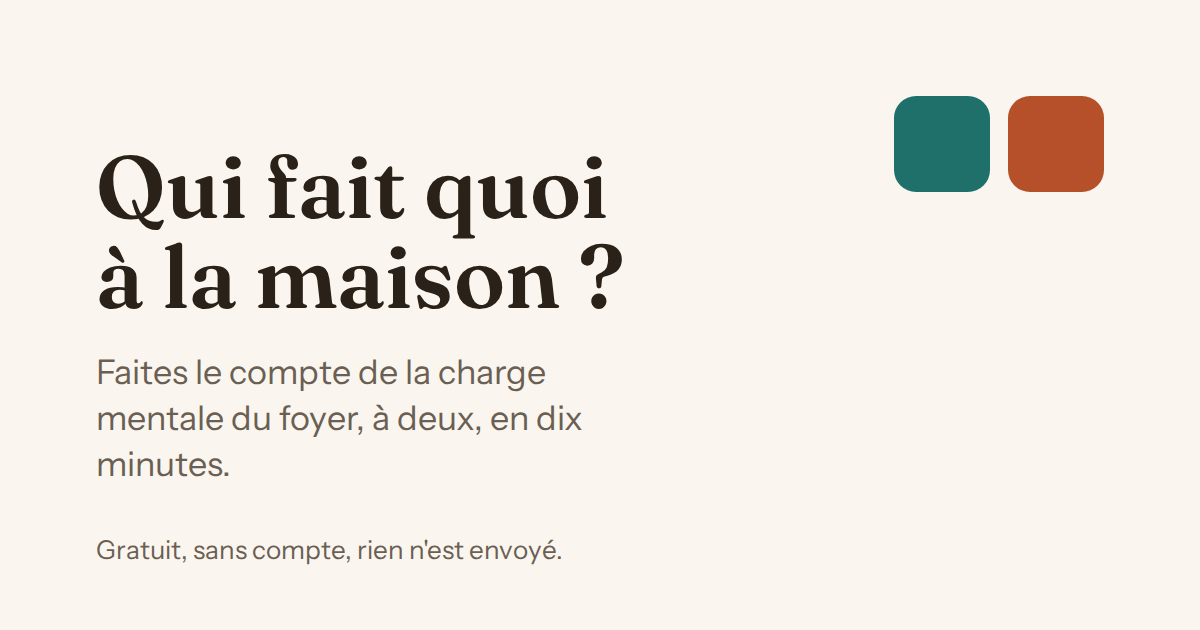
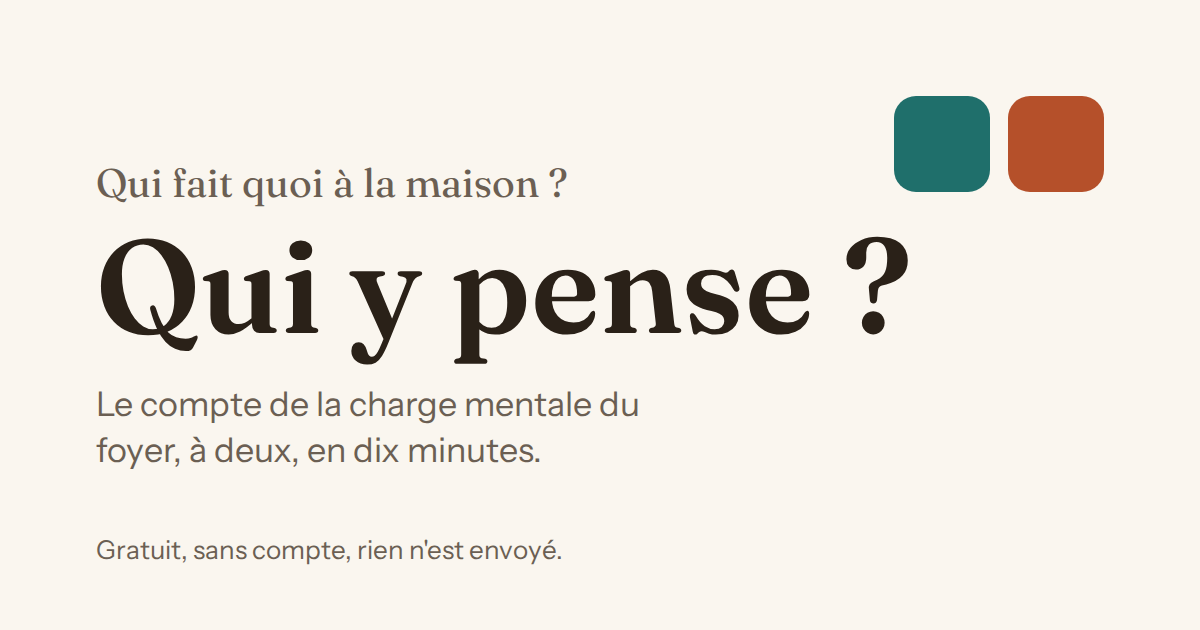
Marque Qui y pense ? : titre, accroche, image de partage, manifest
Claude-Session: https://claude.ai/code/session_01Kac15Tm4G8R4TCtr8Jm2ZJ

Changed region(s): [[0.0617, 0.2413, 0.6783, 0.754], [0.6783, 0.3619, 0.7708, 0.5429]]

diff --git a/index.html b/index.html
@@ -3,31 +3,31 @@
 <head>
 <meta charset="utf-8">
 <meta name="viewport" content="width=device-width, initial-scale=1">
-<title>Qui fait quoi à la maison ? Le compte de la charge mentale, à deux</title>
-<meta name="description" content="Listez qui s'occupe de quoi et qui y pense dans votre foyer, et lisez le résultat en heures par jour et en tâches à garder en tête. Gratuit, sans compte, rien n'est envoyé, dix minutes à deux.">
+<title>Qui y pense ? Qui fait quoi à la maison, le compte de la charge mentale</title>
+<meta name="description" content="Qui fait quoi à la maison, et surtout qui y pense ? Listez les tâches du foyer à deux et lisez le résultat en heures par jour et en choses à garder en tête. Gratuit, sans compte, rien n'est envoyé.">
 <link rel="canonical" href="https://charlusminus.github.io/charge_mentale_site/">
 <meta name="robots" content="index, follow, max-image-preview:large">
 <meta name="author" content="Charles Alzon">
 <meta name="theme-color" content="#FAF6EF">
 <meta property="og:type" content="website">
 <meta property="og:locale" content="fr_FR">
-<meta property="og:site_name" content="Qui fait quoi à la maison ?">
-<meta property="og:title" content="Qui fait quoi à la maison ?">
-<meta property="og:description" content="Faites le compte de la charge mentale du foyer, à deux, en dix minutes. Gratuit, sans compte, rien n'est envoyé.">
+<meta property="og:site_name" content="Qui y pense ?">
+<meta property="og:title" content="Qui y pense ? Qui fait quoi à la maison">
+<meta property="og:description" content="Le compte de la charge mentale du foyer, à deux, en dix minutes. Gratuit, sans compte, rien n'est envoyé.">
 <meta property="og:url" content="https://charlusminus.github.io/charge_mentale_site/">
 <meta property="og:image" content="https://charlusminus.github.io/charge_mentale_site/img/og.png">
 <meta property="og:image:width" content="1200">
 <meta property="og:image:height" content="630">
-<meta property="og:image:alt" content="Qui fait quoi à la maison ? Faites le compte de la charge mentale du foyer, à deux, en dix minutes.">
+<meta property="og:image:alt" content="Qui y pense ? Qui fait quoi à la maison. Le compte de la charge mentale du foyer, à deux, en dix minutes.">
 <meta name="twitter:card" content="summary_large_image">
-<meta name="twitter:title" content="Qui fait quoi à la maison ?">
-<meta name="twitter:description" content="Faites le compte de la charge mentale du foyer, à deux, en dix minutes. Gratuit, sans compte, rien n'est envoyé.">
+<meta name="twitter:title" content="Qui y pense ? Qui fait quoi à la maison">
+<meta name="twitter:description" content="Le compte de la charge mentale du foyer, à deux, en dix minutes. Gratuit, sans compte, rien n'est envoyé.">
 <meta name="twitter:image" content="https://charlusminus.github.io/charge_mentale_site/img/og.png">
 <link rel="icon" href="img/favicon.svg" type="image/svg+xml">
 <link rel="icon" href="img/icon-32.png" sizes="32x32" type="image/png">
 <link rel="apple-touch-icon" href="img/icon-180.png">
 <link rel="manifest" href="manifest.webmanifest">
-<link rel="stylesheet" href="fonts/fonts.css?v=20260921a">
+<link rel="stylesheet" href="fonts/fonts.css?v=20260921b">
 <script type="application/ld+json">
 {
   "@context": "https://schema.org",
@@ -35,9 +35,10 @@
     {
       "@type": "WebApplication",
       "@id": "https://charlusminus.github.io/charge_mentale_site/#app",
-      "name": "Qui fait quoi à la maison ?",
+      "name": "Qui y pense ?",
+      "alternateName": "Qui fait quoi à la maison",
       "url": "https://charlusminus.github.io/charge_mentale_site/",
-      "description": "Outil gratuit pour répartir les tâches et la charge mentale du foyer : qui s'en occupe, qui y pense, combien d'heures par jour pour chacun.",
+      "description": "Outil gratuit pour faire le compte des tâches et de la charge mentale du foyer : qui s'en occupe, qui y pense, combien d'heures par jour et combien de choses en tête pour chacun.",
       "applicationCategory": "LifestyleApplication",
       "operatingSystem": "Any",
       "browserRequirements": "Fonctionne dans tout navigateur récent, sans compte",
@@ -114,6 +115,8 @@
   /* accueil */
   header.hero { padding: 64px 0 0; }
   header.hero p.lead { font-size: 1.2rem; max-width: 46ch; margin: 1.2rem 0 0; }
+  header.hero .sur { font-family: var(--serif); font-size: 1.35rem; color: var(--muted); margin: 0 0 .4rem; font-variation-settings: "opsz" 40; }
+  header.hero h1 { font-size: clamp(3rem, 8vw, 4.6rem); }
   .stats { display: grid; grid-template-columns: repeat(3, 1fr); gap: 2rem; margin: 64px 0; }
   .stat { padding-top: .9rem; border-top: 1.5px solid var(--ink); }
   .stat strong { display: block; font-size: 2.3rem; line-height: 1.1; font-variant-numeric: tabular-nums; white-space: nowrap; }
@@ -250,8 +253,9 @@
   <!-- ÉCRAN 1 : accueil -->
   <div class="ecran" id="e1">
     <header class="hero">
-      <h1>Qui fait quoi<br>à la maison ?</h1>
-      <p class="lead">Faites le compte à deux, en dix minutes. Les tâches sont déjà listées : pour chacune, dites qui s'en occupe et qui y pense. Vous lisez ensuite combien d'heures par jour et combien de choses à garder en tête ça représente pour chacun.</p>
+      <p class="sur">Qui fait quoi à la maison ?</p>
+      <h1>Qui y pense ?</h1>
+      <p class="lead">Faites le compte à deux, en dix minutes. Les tâches sont déjà listées : pour chacune, dites qui s'en occupe, et qui y pense. Vous lisez ensuite combien d'heures par jour et combien de choses à garder en tête ça représente pour chacun.</p>
       </header>
 
     <div class="stats">
@@ -334,7 +338,7 @@
     </section>
   </div>
 
-  <footer>Un tableur tenu à deux depuis 2025, rendu utilisable par tous. Le lien de partage contient vos réponses, rien d'autre. <a href="https://github.com/charlusminus/charge_mentale_site">Code ouvert</a>. Sources : <a href="https://www.insee.fr/fr/statistiques/2123967">INSEE, Emploi du temps 2010</a>, <a href="https://www.ined.fr/fr/premiers-resultats-enquete-famemp">INED, FAMEMP</a>, <a href="https://journals.sagepub.com/doi/10.1177/0003122419859007">Daminger 2019</a>, <a href="https://www.fairplaylife.com/the-book">Fair Play</a>.</footer>
+  <footer>Qui y pense ? Un tableur tenu à deux depuis 2025, rendu utilisable par tous. Le lien de partage contient vos réponses, rien d'autre. <a href="https://github.com/charlusminus/charge_mentale_site">Code ouvert</a>. Sources : <a href="https://www.insee.fr/fr/statistiques/2123967">INSEE, Emploi du temps 2010</a>, <a href="https://www.ined.fr/fr/premiers-resultats-enquete-famemp">INED, FAMEMP</a>, <a href="https://journals.sagepub.com/doi/10.1177/0003122419859007">Daminger 2019</a>, <a href="https://www.fairplaylife.com/the-book">Fair Play</a>.</footer>
   <noscript><p style="padding:16px;background:#F1EBDF">Ce site calcule tout dans votre navigateur : il a besoin de JavaScript pour fonctionner.</p></noscript>
 </main>
 
@@ -343,7 +347,7 @@
   <button class="btn" id="suiviBtn">Voir le compte</button>
 </div></div>
 
-<script src="catalogue.js?v=20260921a"></script>
+<script src="catalogue.js?v=20260921b"></script>
 <script>
 (function () {
   const C = window.CATALOGUE;

diff --git a/README.md b/README.md
@@ -1,4 +1,4 @@
-# Qui fait quoi à la maison ?
+# Qui y pense ? Qui fait quoi à la maison
 
 Faites le compte de la répartition des tâches et de la charge mentale du foyer, à deux, en dix minutes.
 Gratuit, sans compte : tout se calcule dans le navigateur, rien n'est envoyé.
